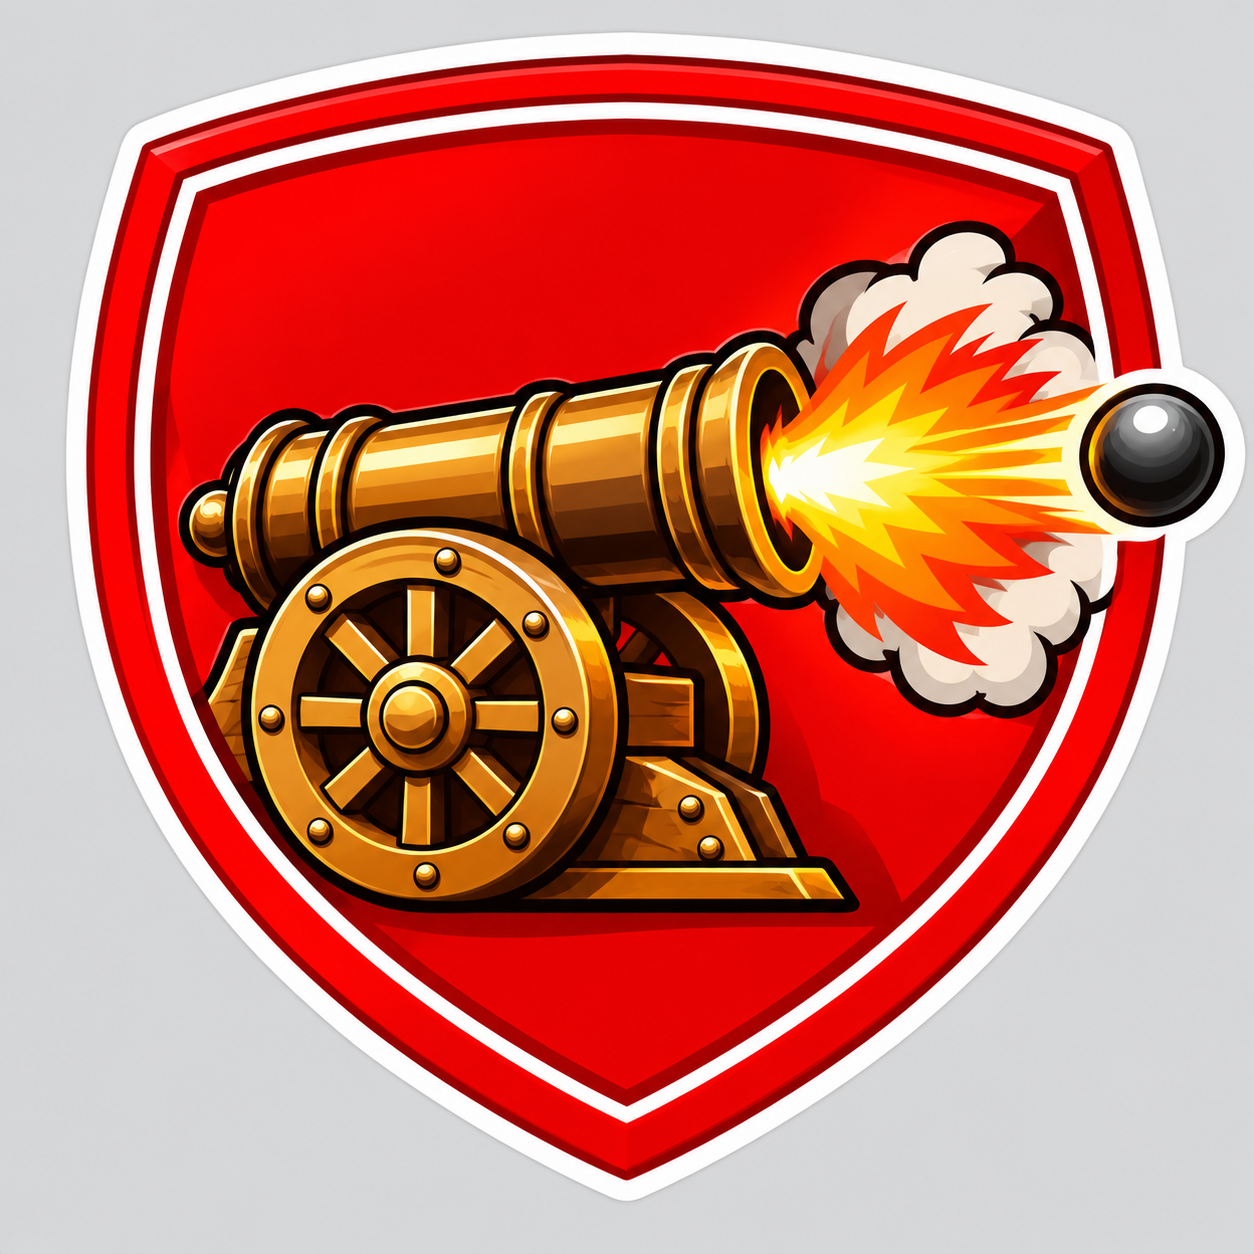
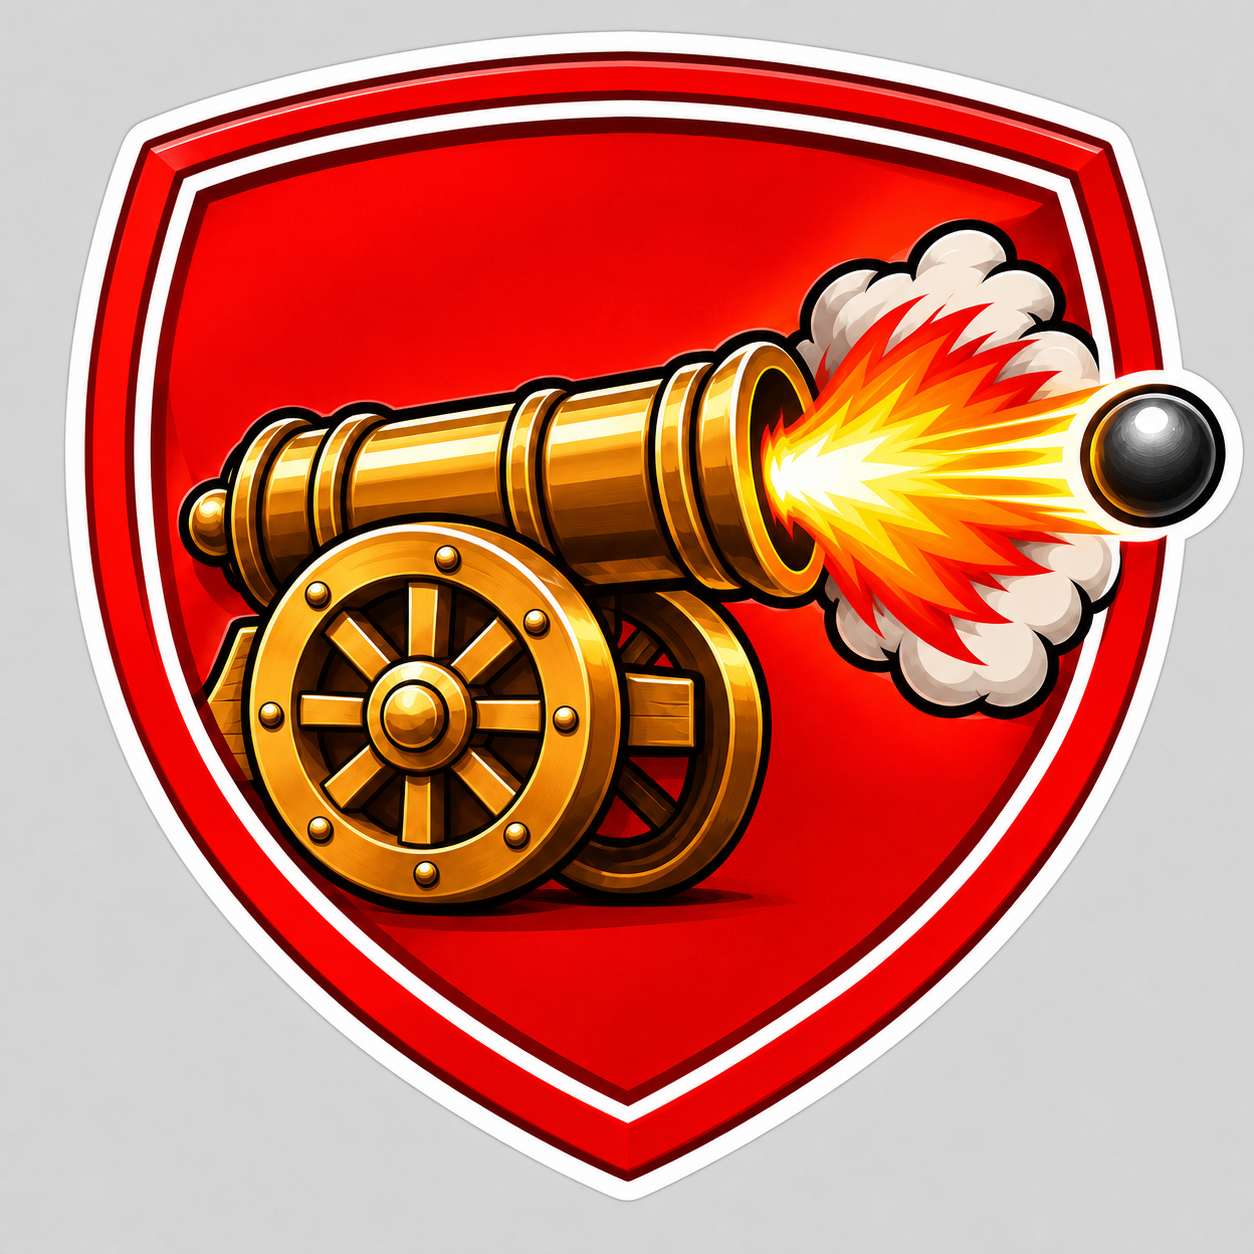
Arsenal crest v2: cannon on its wheels, no wooden block

diff --git a/frontend/src/data/avatars.ts b/frontend/src/data/avatars.ts
@@ -33,7 +33,7 @@ const CLUB_BY_NAME = new Map(
 
 // "?v=" makes phones fetch a crest again after its picture is replaced
 // (Telegram's web view keeps the old file otherwise). Raise it with each new set.
-const CREST_VERSION = '2026-11-25b'
+const CREST_VERSION = '2026-11-25c'
 export const clubBadge = (name?: string | null): string | null => {
   const src = (name && (CLUB_BY_NAME.get(name) || EXTRA_SHIELDS[name])) || null
   return src ? `${src}?v=${CREST_VERSION}` : null

diff --git a/changelogs/CHANGELOG-2026-11-22-release-2.2-prep.md b/changelogs/CHANGELOG-2026-11-22-release-2.2-prep.md
@@ -100,3 +100,4 @@ Files: `frontend/public/avatars/clubs/*.png` (512 px), `frontend/src/styles/Chal
 - 25 Nov: tilts dropped. New crest style = simple sticker, shield straight from the front, even white edge (prompt in club-crests.md). Arsenal redrawn (bright red, fat cannon), original in betty-crests/v7, on DEV, checked at 3x. Live untouched. Next: same style for other clubs one by one.
 - 25 Nov: new Arsenal DEPLOYED LIVE (release-2.1 6d28083), checked live at 3x. Man City: white sticker edge added (same as Arsenal), dev deployed + checked at 3x; live waits for "deploy".
 - 25 Nov: Man City white edge DEPLOYED LIVE (release-2.1 ab6f4c1), checked live at 3x. Arsenal: owner wants the wooden block under the cannon gone -> prompt updated, waiting for new picture.
+- 25 Nov: Arsenal v2 (no wooden block) on DEV, checked at 3x; live waits for "deploy".
